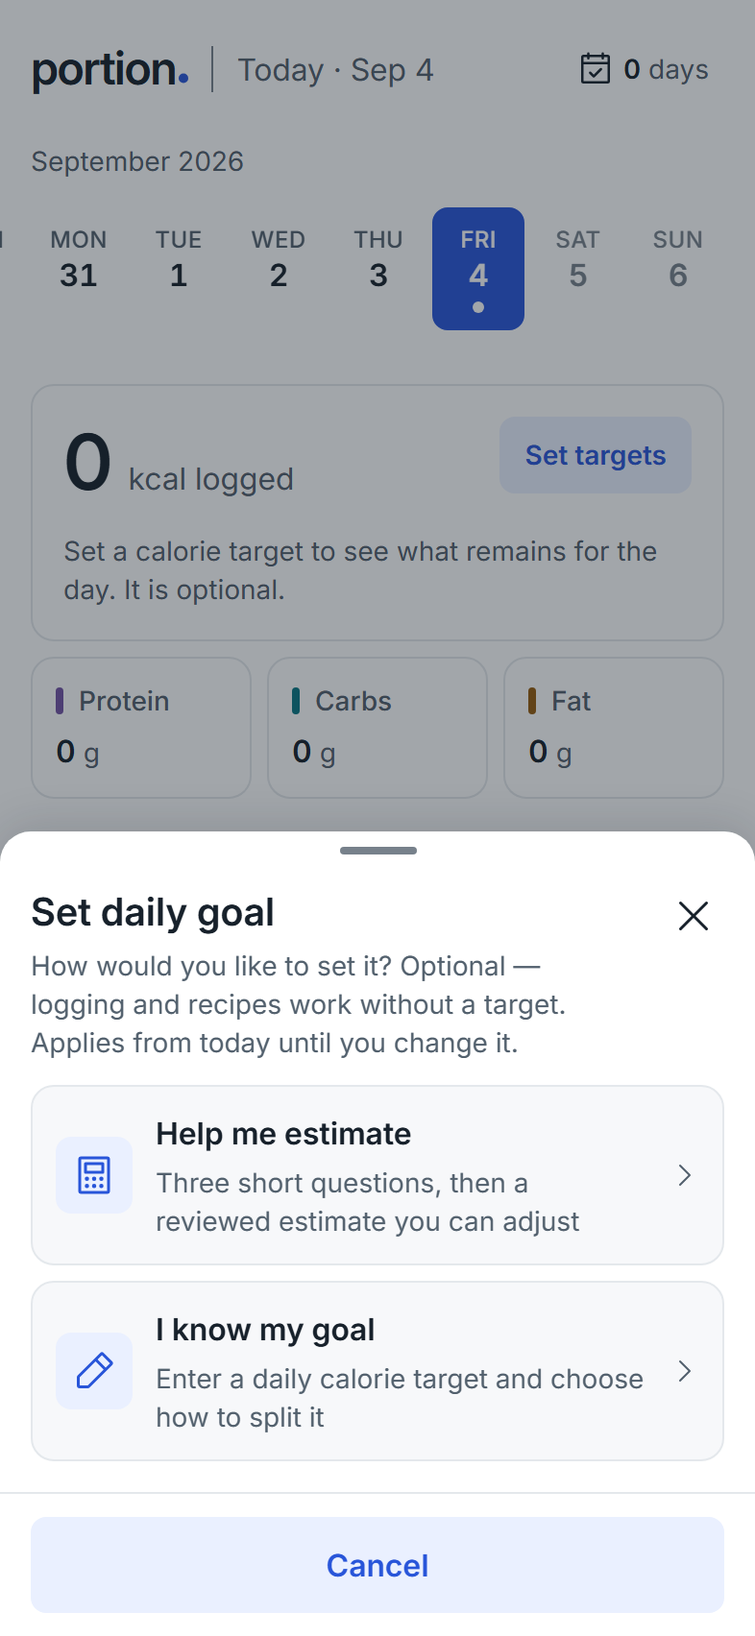
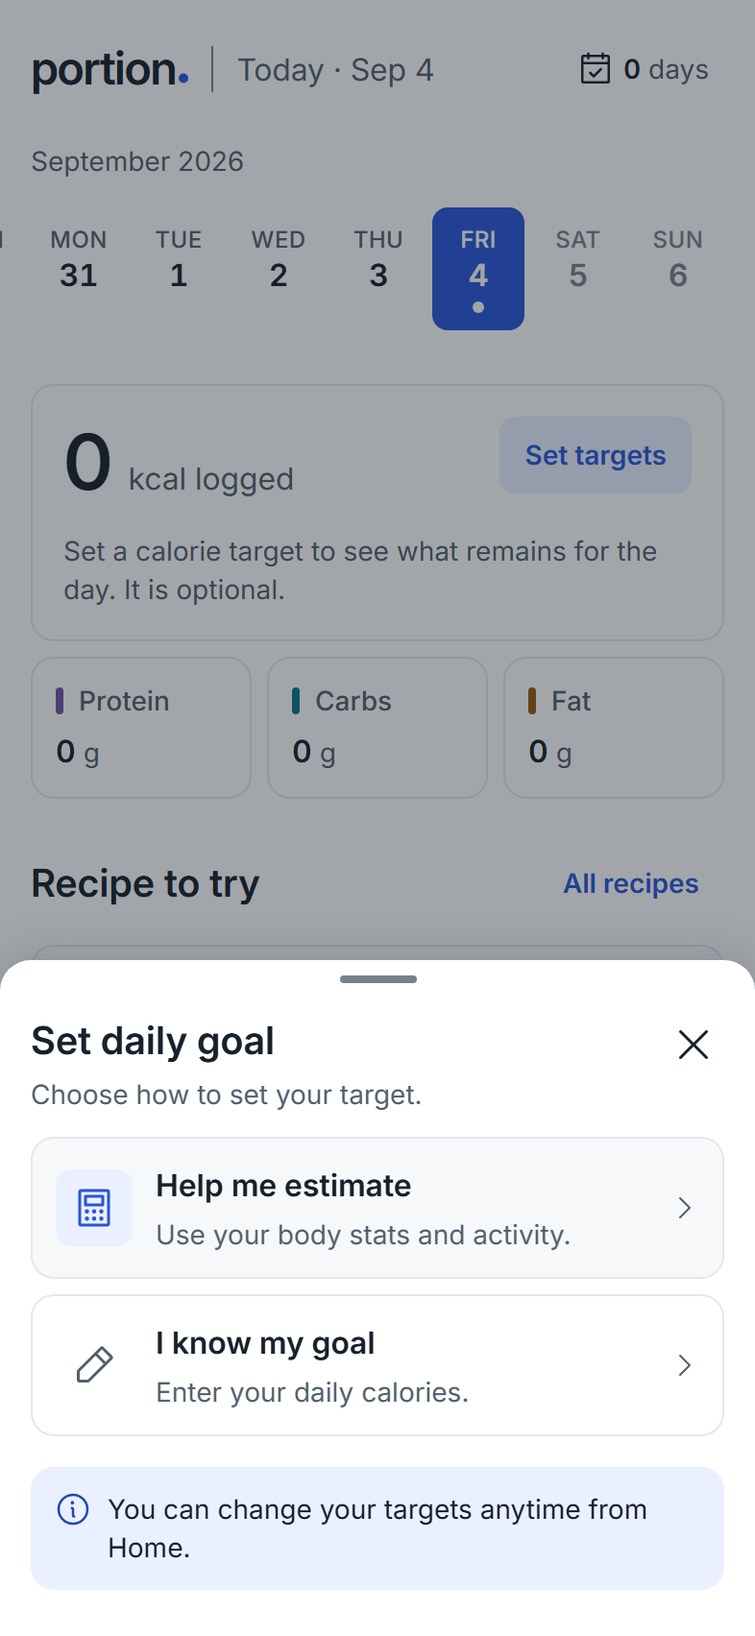
verify(targets): walkthrough journeys for the focused flow, capture rows 39-39s, curated evidence and manifest

diff --git a/verification/manifest.md b/verification/manifest.md
@@ -1,8 +1,8 @@
 # Verification evidence — manifest
 
-Curated, tracked captures of the implemented product after the Hi-Fi redesign (`docs/design/hifi-decisions.md` §10), Stage B (§11: the populated Food tab, device record, local icons and app icon) the R1–R6 revision (§12: selected days, streak and goal history on Home; curated recipe discovery; the two-step manual task with the shared exit policy; source-specific review; the R6 method sheet) and revision H2 (§13: the compact day strip, the calorie card and macro cards, the recommendation above the meals, the targets sheet with its estimate path, the adjustable water reference, Recipes discovery without a search field, the shared Search toolbar in both scopes). Every image was rendered by a script from the committed source and then read at full resolution; the “Inspection” column is that reading, not an automated result. The complete local sets (70 runtime + 176 Storybook images) are regenerated into the ignored `.verification/` directory by the same scripts.
+Curated, tracked captures of the implemented product after the Hi-Fi redesign (`docs/design/hifi-decisions.md` §10), Stage B (§11: the populated Food tab, device record, local icons and app icon) the R1–R6 revision (§12: selected days, streak and goal history on Home; curated recipe discovery; the two-step manual task with the shared exit policy; source-specific review; the R6 method sheet) revision H2 (§13: the compact day strip, the calorie card and macro cards, the recommendation above the meals, the adjustable water reference, Recipes discovery without a search field, the shared Search toolbar in both scopes) and the target-flow redesign (§14: the route-choice sheet, the three focused estimate steps, the full-screen review and editor, the effective date with one scheduled change, removal with confirmation). Every image was rendered by a script from the committed source and then read at full resolution; the “Inspection” column is that reading, not an automated result. The complete local sets (70 runtime + 176 Storybook images) are regenerated into the ignored `.verification/` directory by the same scripts.
 
-- Source state: the H2 checkpoint on `feat/redesign-home-recipes-targets` (the commit that updates this file); every image below was rendered from that tree. Rows whose composition H2 changed (every Home row, Recipes discovery, Search in both scopes, the recipe filter sheet now opened from Search) were re-read and their notes rewritten; the rest were replaced by pixel-near re-renders of the same states. Refinements (ledger §13.9) re-rendered every Home row after the review: unselected and future days are text without a tile, and the calorie card sits on the macro cards’ canvas surface with the decorative border and card radius. Retired with this revision: `02-goal-sheet.png`, `32-recipes-browse.png`, `35-recipes-filtered.png`, `43-home-recommendation-with-filters.png`, `19–23-budgetbar-*.png` and `39-goal-editor-targets.png` (replaced by the daily-nutrition and targets rows below). Retired rows and their files: `O05-add-to-meal-food.png` (foods now commit on the review screen; the Add-to-meal sheet serves recipes only), `S07-6-180-162.png` (the manual second step replaces the review-from-manual state), `V-O05-200.png`, `33-addtomeal-from-food.png`, `09-add-to-meal-sheet.png` and `26-manual-discard-dialog.png`.
+- Source state: the target-flow checkpoint on `feat/redesign-home-recipes-targets` (the commit that updates this file). The targets rows (O09, O09-2, `02-targets-*`, `50b–50i`, `39–39s`) were rendered from that tree and re-read; every other image is the H2 / §13.9 render, unchanged by this revision (the day-strip rows `39h` and `39i` keep their ids). Retired with this revision: the seven `TargetsSheet` rows `39–39g` of H2, replaced by the flow rows below. Rows whose composition H2 changed (every Home row, Recipes discovery, Search in both scopes, the recipe filter sheet now opened from Search) were re-read and their notes rewritten; the rest were replaced by pixel-near re-renders of the same states. Refinements (ledger §13.9) re-rendered every Home row after the review: unselected and future days are text without a tile, and the calorie card sits on the macro cards’ canvas surface with the decorative border and card radius. Retired with this revision: `02-goal-sheet.png`, `32-recipes-browse.png`, `35-recipes-filtered.png`, `43-home-recommendation-with-filters.png`, `19–23-budgetbar-*.png` and `39-goal-editor-targets.png` (replaced by the daily-nutrition and targets rows below). Retired rows and their files: `O05-add-to-meal-food.png` (foods now commit on the review screen; the Add-to-meal sheet serves recipes only), `S07-6-180-162.png` (the manual second step replaces the review-from-manual state), `V-O05-200.png`, `33-addtomeal-from-food.png`, `09-add-to-meal-sheet.png` and `26-manual-discard-dialog.png`.
 - Renderer: Playwright’s bundled Chromium (headless), `deviceScaleFactor: 2`, mobile emulation with touch. Enlarged text is injected as `html { font-size: 200% }`, the same mechanism the Storybook decorator uses. Safe-area variants use the Storybook fixture (59 px top / 34 px bottom at 393 × 852); the runtime reads `env(safe-area-inset-*)`.
 - Capture rule (ledger D-14): while a dialog is open, and for the keyboard-inset fixture, the capture is the viewport; every other capture is full-page. A full-page capture of a page taller than the viewport shows the **fixed navigation bar and sticky headers/footers at their scroll-0 position, i.e. mid-image** — a screenshot artefact, not a layout defect; at runtime the bar is fixed to the real viewport bottom (ledger D-26) and the content reserves its height once.
 - Regenerate: `npm run build && npx vite preview --port 4173`, then `node scripts/verify/runtime-walkthrough.mjs`; `npm run build-storybook`, then `node scripts/verify/storybook-captures.mjs`. Both scripts fail on console/page errors; the Storybook script also fails when a story’s play function throws.
@@ -69,8 +69,8 @@ Curated, tracked captures of the implemented product after the Hi-Fi redesign (`
 | 53 | S01-6 · new (R1) | Home / Streak of three days | runtime + story | `S01-6-streak.png` | “3 days” beside the calendar-check glyph as the header’s trailing control; “850 kcal remaining” with Edit targets top right, “● 1,350 consumed · 61 %”, “Target 2,200 kcal”; the rule sheet is opened and closed in the play (asserted) so the capture shows Home itself. |
 | 54 | S02-11 · new (R2) | Search / Recipes · the catalogue without a query | runtime + story | `S02-11-recipes-catalogue.png` | Recipes scope with an empty field, the toolbar (List checked, “Recipe filters” carrying “1”) and the chip “Under 460 kcal” handed over as the snapshot; “Matching recipes · 8 recipes match your filters”; every matching catalogue recipe as a photographed row card with “Matches all 1 filter”; the fixed bar mid-image (artefact). |
 | 55 | S06-4 · new (R5) | Manual entry / Correction draft from a barcode match | runtime + story | `S06-4-correction-draft.png` | Step 1 prefilled: the provenance note “Editing the values matched from barcode 5012345678900. Your edits become your own entry; the original record is unchanged.”, name “Oat drink, unsweetened”, 100 ml, 43 kcal, 1 / 6.6 / 1.5 g; Continue to portion; Back returns to the review. |
-| 56 | O09 · new (H2) | Set daily goal (the targets entry sheet) | runtime + story | `O09-targets-entry.png` | Sheet over the dimmed first-use Home: “Set daily goal”, “How would you like to set it? Optional — …”, the two `MethodOption` rows “Help me estimate” (calculator tile) and “I know my goal” (pencil tile), Cancel; viewport capture. |
-| 57 | O09-2 · new (H2) | Estimated daily target (the reviewed estimate) | runtime + story | `O09-2-estimate-review.png` | “Estimated daily target · 1,699 kcal” on the light surface with “Based on female, 34, 168 cm, 62 kg, lightly active. Maintenance estimate 2,199 kcal a day from the 2023 Dietary Reference Intakes equations, 500 kcal below it to lose weight. An estimate for people like you, not a measurement or medical advice…”; the editable Daily calorie target 1699; Balanced checked with Suggested macros 85 g / 212 g / 57 g and the not-personalised caption; Back / Save targets. |
+| 56 | O09 · new (H2, redesigned §14) | Set daily goal (the route-choice sheet) | runtime + story | `O09-targets-entry.png` | Sheet over the dimmed first-use Home: “Set daily goal”, “Choose how to set your target.”, the prominent “Help me estimate — Use your body stats and activity.” row with the calculator tile, the quiet “I know my goal — Enter your daily calories.” row, the information-surface note “You can change your targets anytime from Home.” with the circled Info glyph; Close top right, no Cancel footer; viewport capture. |
+| 57 | O09-2 · new (H2, redesigned §14) | Your daily target (the full-screen review) | runtime + story | `O09-2-estimate-review.png` | Focused bar (Back, Help, no step count) → “Your daily target” → the centred block: “Estimated”, 1,699 in the 40/48 result style, “kcal/day”, the small secondary Adjust, “An estimate you can adjust.” → “Lose weight · Lightly active” with Edit details → Nutrition preference chips (Balanced checked) → Suggested macros as hairline rows with the nutrient markers (85 g 20 %, 212 g 50 %, 57 g 30 %) → “Starts Today · Change”, “From today until you change it.” → Save targets with Cancel setup beneath. No navigation bar. |
 
 ## Representative and risk-bearing variants (`verification/storybook/states/`)
 
@@ -102,13 +102,13 @@ Curated, tracked captures of the implemented product after the Hi-Fi redesign (`
 
 ## Runtime walkthrough (`verification/runtime/`, 390 × 844 unless stated)
 
-The walkthrough drives the built app through the goal, meal, water, barcode, manual, photo, recipe and search journeys, then the Stage B Food-tab journey (catalogue, filters, grid, drink logging, recents, unified query, reload, day boundary, midnight with a mocked clock) then the R1–R6 journeys (day selection and the bound target day, the streak, goal history across days, the two-step manual task with Back / Edit / Cancel and browser Back, corrections from the barcode and photo reviews, View all snapshots, the multi-select dietary set, the hero edge), then the H2 journeys (the targets entry sheet, a preset’s suggested grams, custom grams with the mismatch line, the estimate’s three steps and review, an explicit recalculation, the water reference, discovery preferences with the exclusive time bound and Reset, the Recipes toolbar with its filters and the list / grid switch, View all and Browse all into Search, the icon-only scanner), then the target carry-forward checks of §13.9 (reload, a past day, an edit made from a past day, removal, the stored periods, mocked midnight) — 115 checks; see `scripts/verify/runtime-walkthrough.mjs`. Tracked subset:
+The walkthrough drives the built app through the goal, meal, water, barcode, manual, photo, recipe and search journeys, then the Stage B Food-tab journey (catalogue, filters, grid, drink logging, recents, unified query, reload, day boundary, midnight with a mocked clock) then the R1–R6 journeys (day selection and the bound target day, the streak, goal history across days, the two-step manual task with Back / Edit / Cancel and browser Back, corrections from the barcode and photo reviews, View all snapshots, the multi-select dietary set, the hero edge), then the H2 journeys (the targets entry sheet, a preset’s suggested grams, custom grams with the mismatch line, the estimate’s three steps and review, an explicit recalculation, the water reference, discovery preferences with the exclusive time bound and Reset, the Recipes toolbar with its filters and the list / grid switch, View all and Browse all into Search, the icon-only scanner), then the target carry-forward checks of §13.9 (reload, a past day, an edit made from a past day, removal, the stored periods, mocked midnight), then the target-flow journeys of §14 (the route sheet, the focused manual editor, the three steps with validation and focus, equal tiles and unit conversion, Help with focus return, the full-screen review with the centred figure, Adjust in place, Back and Edit details, one save with its confirmation, the compact source row and Recalculate, browser Back through the guard, a future start, a refused write with Try again, the scheduled change on Home and in the editor, Cancel scheduled change, Set targets from a past day opening today’s editor, removal with a scheduled change after one confirmation) — 135 checks; see `scripts/verify/runtime-walkthrough.mjs`. Tracked subset:
 
 | File | Surface / step | Viewport | Inspection |
 | --- | --- | --- | --- |
 | 01-home-empty.png | S01-1 at launch (no targets) | 390 × 844 | Header “Today · Sep 5” with “0 days”; “September 2026” over the compact strip (Sat 5 filled and dotted, Sun 6 disabled, no week buttons); “0 kcal logged” with the one Set targets action and the optional-target sentence; macro cards 0 g; four empty meal rows; Water 0 ml / 2 L; fixed bar at the bottom. |
-| 02-targets-entry.png | O09 — Set daily goal | 390 × 844 | The entry sheet over the dimmed Home: “How would you like to set it?”, Help me estimate, I know my goal, Cancel (viewport capture). |
-| 02-targets-custom.png | The manual path with custom grams | 390 × 844 | Daily calorie target 2000; Custom checked; Protein 120, Carbohydrates 220, Fat 65 with “Leave blank to show the logged grams alone”; the info line “These grams add up to 1,945 kcal, 55 kcal below your calorie target …”; Back / Save (viewport capture). |
+| 02-targets-entry.png | O09 — Set daily goal | 390 × 844 | The route sheet over the dimmed Home: “Choose how to set your target.”, Help me estimate (prominent), I know my goal, the “change anytime from Home” note, Close; no Cancel (viewport capture). |
+| 02-targets-custom.png | The manual editor with custom grams | 390 × 844 | Full screen “Set daily targets”: Daily calories 2000 with “Whole calories a day.”; Custom checked; Protein 120, Carbohydrates 220, Fat 65 with “Leave blank to show the logged grams alone”; the info line “These grams add up to 1,945 kcal, 55 kcal below your calorie target …”; “Starts Today · Change” with “From today until you change it.”; Save targets with Cancel setup beneath (full-page capture; the bar sits mid-image). |
 | 03-home-goal-empty.png | S01-1 with target 2,000 and custom macro targets | 390 × 844 | “2,000 kcal remaining” with Edit targets top right, the empty track with its marker, “● 0 consumed · 0 %”, “Target 2,000 kcal”; macro cards “0 / 120 g”, “0 / 220 g”, “0 / 65 g” with empty tracks; Recipe to try with “One serving fits in your remaining 2,000 kcal.”; Water “Adjustable reference”. |
 | 04-method-sheet.png | O01 over Home (R6) | 390 × 844 | “Log food” sheet: Search food row, “WITH THE CAMERA” card pair, hairline, quiet Enter manually row; Take a photo focused (viewport capture). |
 | 06-search-food-results.png | S02-1 | 390 × 844 | Barcode action inside the focused field; toolbar; “1 item found”; one row with its thumbnail. |
@@ -144,9 +144,14 @@ The walkthrough drives the built app through the goal, meal, water, barcode, man
 | 47-search-failure.png | S02-4 | 390 × 844 | Query “offline” kept; Try again / Enter manually. |
 | 49-remove-entry-dialog.png | Remove confirmation over S07-3 | 390 × 844 | Dialog names the food; Keep entry beside destructive-tinted Remove (viewport capture). |
 | 50-home-after-remove.png | S01-2 after removal | 390 × 844 | Totals recalculated (“● 900 consumed · 45 %”, 1,100 remaining); the removed entry gone; Water 1 L / 2 L. |
-| 50b-estimate-about.png | About you (Step 1 of 3) | 390 × 844 | Age, the sex the equation uses (native radios with the explanation), the height and weight unit switches and fields; Back / Continue (viewport capture). |
-| 50c-estimate-lifestyle.png | Lifestyle (Step 2 of 3) | 390 × 844 | The four activity categories as radio rows with their descriptions, Lightly active checked (viewport capture). |
-| 50d-estimate-review.png | O09-2 — Estimated daily target | 390 × 844 | “1,699 kcal” with the assumptions in words (maintenance 2,199, 500 kcal below it to lose weight, not medical advice); the editable calorie field; Balanced with its suggested grams; Save targets (viewport capture). |
+| 50b-estimate-about.png | About you (1/3) | 390 × 844 | The compact bar: Back, “1/3” centred, Help; “About you”; Age 34 years with “Adults 19 and over.”; Female / Male as two equal tiles; Height with the cm | ft + in control at the end of its label row and 168 cm beneath; Weight with kg | lb and 62 kg; Continue with Cancel setup beneath. |
+| 50c-estimate-lifestyle.png | Your activity (2/3) | 390 × 844 | “2/3” centred; “Your activity — Think about a typical week.”; four selection cards with one-line descriptions, Lightly active on the selected surface with the check mark in its reserved slot; Continue. |
+| 50d-estimate-review.png | O09-2 — Your daily target (from a saved custom target) | 390 × 844 | “Estimated · 1,699 · kcal/day · Adjust · An estimate you can adjust.” centred; “Lose weight · Lightly active · Edit details”; the preference kept from the saved target (Custom with its grams and the mismatch line); Starts Today; Save targets (full-page capture; the footer sits mid-image). |
+| 50e-estimate-help.png | Help on About you | 390 × 844 | “Why these details?” with two short sentences and the closed “Calculation details” disclosure; Close; the step dimmed behind (viewport capture). |
+| 50f-targets-scheduled-date.png | Edit targets with a future start | 390 × 844 | “Estimated · Lose weight · Lightly active · Recalculate”; Daily calories 1750; Custom grams; “Starts Monday, September 7 · Use today”, the Start date input, “A day from today on. This is when the targets begin, not a deadline.”, “Starts Monday, September 7. Your current targets stay until then.”; Remove targets in the destructive treatment; Save targets / Cancel changes. |
+| 50g-targets-save-failed.png | A refused write | 390 × 844 | The same editor with the draft intact; the error message “Not saved — Portion could not store the targets on this device …” above the primary action, now “Try again”; Cancel changes beneath. |
+| 50h-home-scheduled.png | Home with a scheduled change | 390 × 844 | “799 kcal remaining” with Edit targets, “● 900 consumed · 53 %”, “Target 1,699 kcal” and beneath it “Scheduled: 1,750 kcal from tomorrow.”; the toast “Targets saved. They start Monday, September 7. Your current targets stay until then.” |
+| 50i-targets-remove-confirm.png | Remove daily targets | 390 × 844 | The confirmation over the editor: “Remove daily targets — Food, water and past targets will stay. This also cancels the change scheduled for Monday, September 7.”; Keep targets (focused) and Remove targets in the error tokens (viewport capture). |
 | 51-home-320.png | S01-2 | 320 × 800 | The compact strip scrolls; the calorie card keeps Edit targets top right; the three macro cards stay side by side with “90 g” style values; meal rows fit; no horizontal page overflow (asserted at 320 / 393 / 430). |
 | 52-method-sheet-320.png | O01 | 320 × 800 | The card pair stays side by side with wrapped captions (asserted); viewport capture. |
 | 53-home-320-200pct.png | S01-2 | 320 × 800, 200 % | Lockup wraps its context and the streak; the strip shows three tiles and scrolls; the calorie card stacks its figure and action; macro cards one per row; meal rows wrap; bar intact; toast above the bar. |
@@ -197,13 +202,25 @@ Captures of the redesign’s shared components, read at full resolution.
 | 36-camerastage-tones.png | CameraStage tones | Scanning / paused / detected / permission chips and corner colours. |
 | 37-camerastage-image.png | CameraStage with image | Chip on the on-image ground; no guide. |
 | 38-toast-undo.png | Toast with Undo | Status region with action + Close above the navigation inset. |
-| 39-targets-entry.png | TargetsSheet entry | “Set daily goal” with the two routes as MethodOption rows and Cancel. |
-| 39b-targets-manual-preset.png | TargetsSheet manual path, Higher protein at 1,800 kcal | Suggested macros 135 g / 203 g / 50 g with their shares and the not-personalised caption; “Help me estimate instead”; Cancel / Save. |
-| 39c-targets-manual-custom.png | TargetsSheet custom grams | Three optional gram fields and the mismatch line stating the energy against the target. |
-| 39d-targets-estimate-review.png | TargetsSheet review | As O09-2 after the three steps (1,699 kcal, the assumptions, Balanced). |
-| 39e-targets-estimate-gain.png | TargetsSheet gain goal | “3,046 kcal” maintenance with the warning “No surplus is added for gaining weight … Enter the amount you want above it before saving.” |
-| 39f-targets-edit-estimated.png | TargetsSheet editing an estimated goal | The info message with the inputs and “Recalculate estimate”; 1550 kcal with Higher protein; Remove targets and its consequence line. |
-| 39g-targets-about-320-200.png | TargetsSheet About you at 320 / 200 % | Every field full width; the footer actions wrap one per line with whole labels; the age placeholder no longer collides with its unit. |
+| 39-targets-entry.png | TargetsEntrySheet | “Set daily goal — Choose how to set your target.”, the prominent Help me estimate row and the quiet I know my goal row, the Info note on the information surface, Close; no Cancel. |
+| 39b-targets-about.png | Estimate steps — About you (1/3) | The compact bar with the step count centred between the equal Back and Help slots; Age, the Female / Male tiles, Height (cm | ft + in) and Weight (kg | lb) with the unit control at the end of each label row; Continue with Cancel setup beneath. |
+| 39c-targets-about-imperial.png | About you — ft + in and lb | Height as the equal ft / in pair (5 ft, 6 in) with lb selected for Weight (136.7); the play switches the units and asserts the converted values (62 kg, 167.6 cm). |
+| 39d-targets-about-errors.png | About you — validation | Every message beside its field (“Enter your age in years”, “Choose the option the equation should use”, “Enter your height in centimetres”, “Enter your weight in kilograms”); focus on Age; nothing left the step. |
+| 39e-targets-activity.png | Your activity (2/3) | Four selection cards, 12 px apart, 16 px padding, reserved indicator slot; Lightly active selected (surface, boundary, check). |
+| 39f-targets-goal-unsupported.png | Your goal — an unsupported loss target | Lose weight selected; the warning-tone message under the cards: “A loss target for you would be under 1,200 kcal a day” with the explanation and Set it myself; Review estimate does not proceed. |
+| 39g-targets-help.png | Help — Why these details? | The short dialog with the closed Calculation details disclosure and Close; the play closes it and asserts the draft is intact. |
+| 39h-targets-review.png | Target editor — review | As O09-2: the centred Estimated block, Adjust, the summary with Edit details, the preference chips, the macro rows with markers, Starts Today, Save targets. |
+| 39i-targets-review-adjusted.png | Review — adjusted | “Adjusted from the estimate” above 1,650; the Balanced rows recomputed (83 g 20 %). |
+| 39j-targets-manual.png | Target editor — manual | “Set daily targets”: Daily calories 2000 with the helper, Balanced with 100 g / 250 g / 67 g rows, Starts Today, Save targets / Cancel setup; no Remove targets. |
+| 39k-targets-edit-estimated.png | Target editor — edit | “Edit targets”: the compact source row “Estimated · Lose weight · Lightly active” with Recalculate; Daily calories 1699; the rows; Starts Today; Remove targets in the destructive treatment; Save targets / Cancel changes. |
+| 39l-targets-scheduled.png | Edit — a scheduled change | “From today until Sep 11, when your scheduled change starts.” with “Scheduled: 1,800 kcal from Friday, September 11.” and Cancel scheduled change above Remove targets (the full-page capture puts the sticky footer over the date block; the play asserts the copy). |
+| 39m-targets-remove-confirm.png | Remove daily targets | The confirmation naming the scheduled change; Keep targets focused; Remove targets in the error tokens. |
+| 39n-targets-save-error.png | Save failed | “Not saved” with the storage message above Try again; the draft intact. |
+| 39o-targets-about-320-200.png | About you at 320 / 200 % | The label rows wrap so the unit control drops under its label at full size; the tiles stay side by side; fields full width; no overflow. |
+| 39p-targets-review-320-200.png | Review at 320 / 200 % | The heading wraps; the centred figure keeps its unit beneath; the preference chips stack one per line; the macro rows wrap value under name; nothing overflows. |
+| 39q-targets-review-430.png | Review at 430 | The centred block and rows at the wide width; three chips fit on the first line. |
+| 39r-selection-card-tiles.png | SelectionCard tiles | Female / Male at equal widths with centred labels; Male selected with the check mark in the reserved slot (the play measures the widths and moves the selection with the arrow key). |
+| 39s-focused-bar.png | FocusedBar | Back at the start, “1/3” centred on the container, Help at the end (the play measures the equal slots and the centring). |
 | 39h-daystrip-earlier-day.png | DayStrip with an earlier day selected | Thu 3 filled, Fri 4 dotted, the Today action at the end of the caption row; later days disabled. |
 | 39i-daystrip-320-200.png | DayStrip at 320 / 200 % | Three 3 rem tiles visible; the row scrolls; nothing overflows the page. |
 | 40-review-existing-unassigned.png | FoodReview unassigned entry | Meal picker with nothing checked; Update entry disabled until a meal is chosen. |
